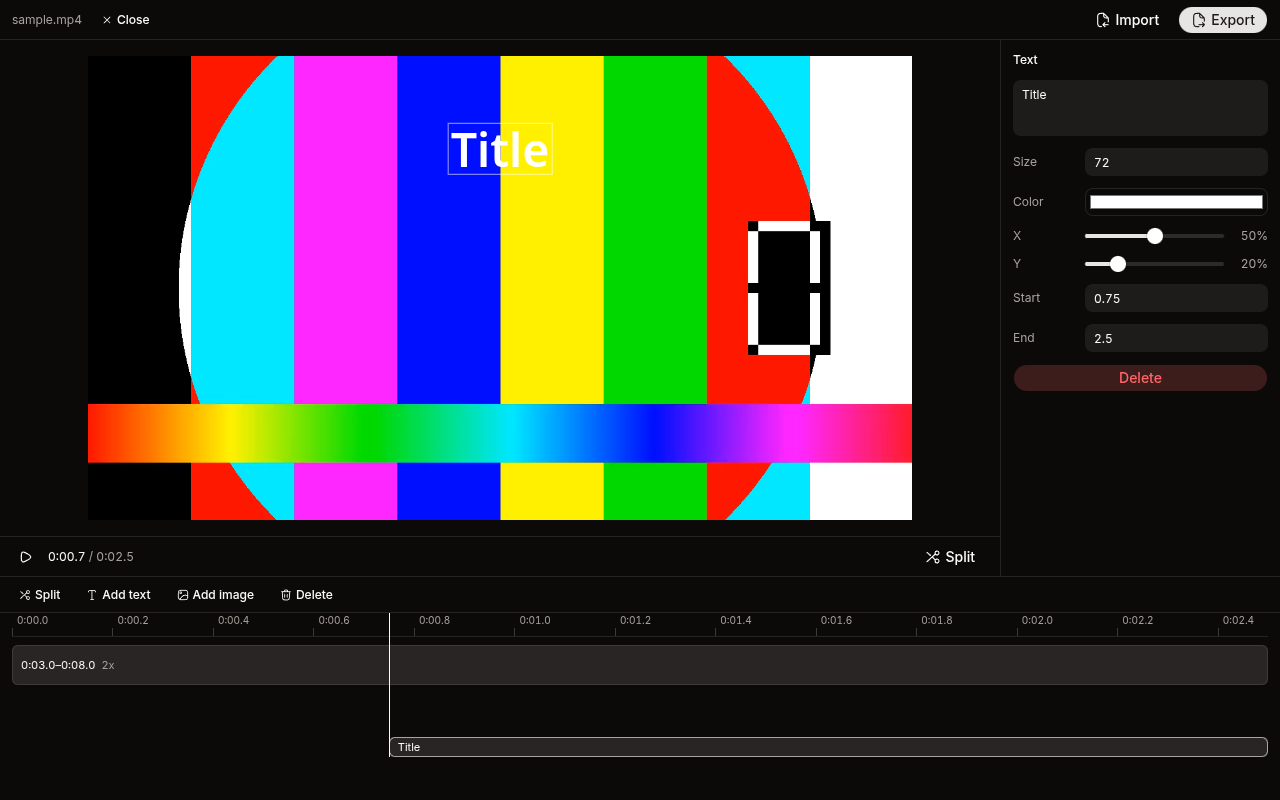
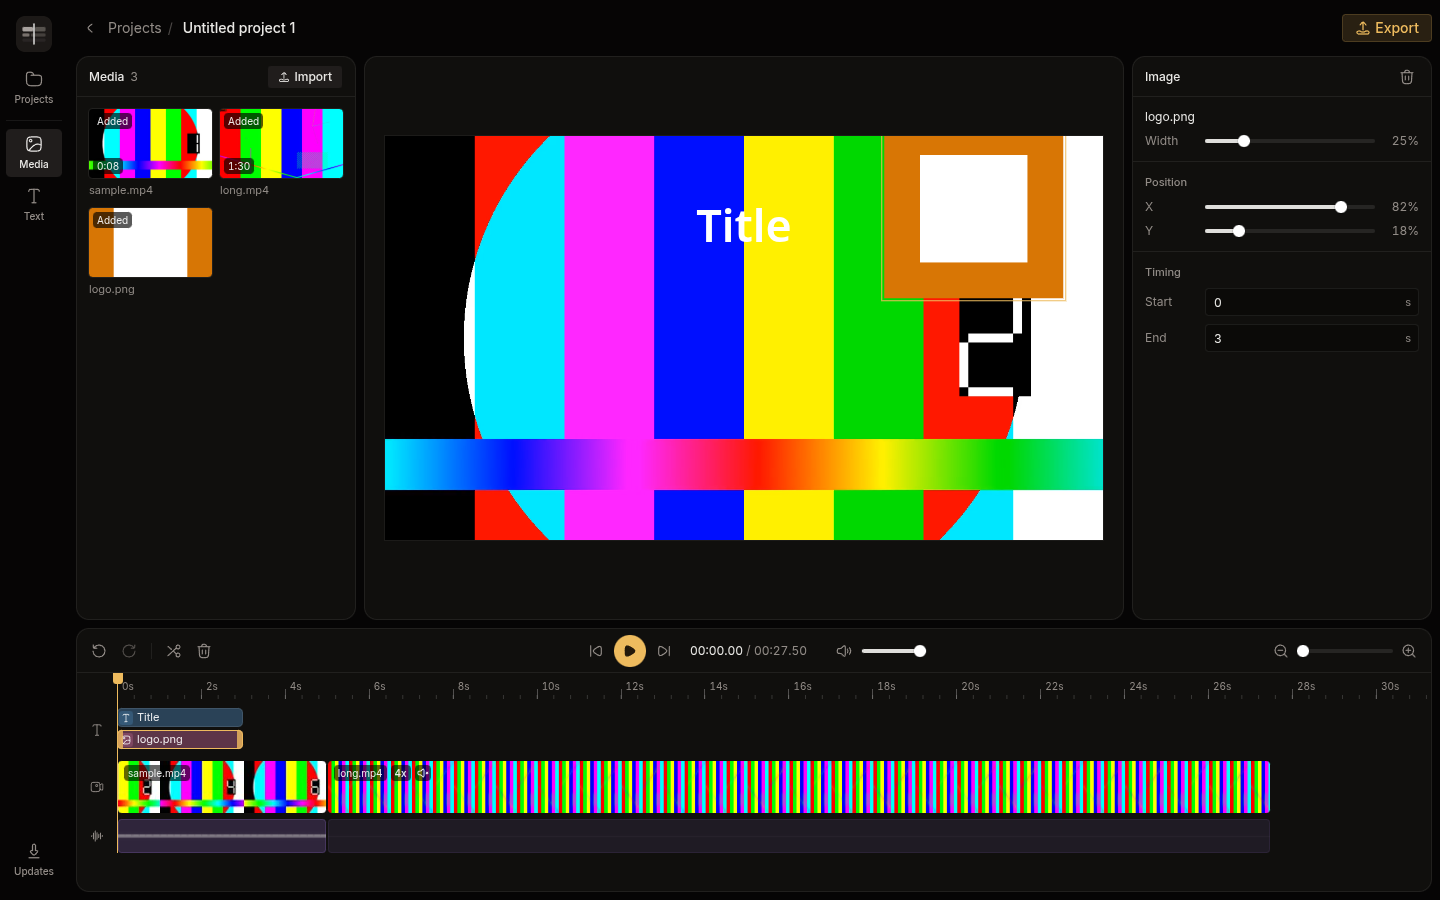
docs: update readme for projects, media bin and shortcuts

diff --git a/README.md b/README.md
@@ -12,10 +12,10 @@
 </p>
 
 <p align="center">
-  <img src="assets/showcase.png" width="1000" alt="Editor with a sped-up clip on the timeline and a text overlay selected in the inspector" />
+  <img src="assets/showcase.png" width="1000" alt="Editor with two videos on the timeline, a title and an image overlay, and the image selected in the inspector" />
 </p>
 
-Open a video, cut it into clips, and export an MP4. Editor keeps every video you open in a local library, so your edits are there the next time you open the same file.
+Create a project, import videos and images, cut them together, and export an MP4. Projects live in a local SQLite database, so your edits are there the next time you open the app.
 
 ## Install
 
@@ -23,16 +23,24 @@ Download the installer for your OS from [Releases](https://github.com/sankalpaac
 
 ## What you get
 
-- Open a video with **Import** or drop it on the window
+- A Projects page with a frame from each project as its thumbnail
+- A media panel per project: import or drop videos and images, then add them to the timeline
+- Cut several videos together. Each source is fitted into the project's frame size
 - Split at the playhead, trim clip edges, delete clips, and drag clips to reorder them
-- Play each clip at 0.25x to 4x speed
-- Add text overlays with size, color, position, and timing
-- Add PNG or JPG image overlays with scale, position, and timing
-- Drag overlays in the preview to place them
-- Export to MP4 with a progress bar and **Cancel**
-- Reopen recent projects with their edits, and see the exports of each video
+- Set each clip's speed (0.25x to 4x) and volume, or mute it
+- Add text overlays (Title, Subtitle, Caption) and PNG, JPG, or WebP image overlays, then drag them in the preview
+- A timeline with frame thumbnails, the audio waveform, and overlay chips
+- Undo and redo for every edit
+- Export to MP4 with a progress bar and **Cancel**, with a history of each project's exports
 
-Shortcuts: **Space** plays and pauses, **S** splits at the playhead, and **Delete** removes the selection.
+| Key                           | Action                         |
+| ----------------------------- | ------------------------------ |
+| **Space**                     | Play or pause                  |
+| **X**                         | Cut at the playhead            |
+| **Delete**                    | Delete the selection           |
+| **Ctrl+Z** / **Ctrl+Shift+Z** | Undo / redo (**Cmd** on macOS) |
+| **Left** / **Right**          | Step one frame                 |
+| **Home** / **End**            | Jump to the start or end       |
 
 The preview and the export use the same coordinates, so an overlay lands where you placed it. Text uses the bundled Noto Sans on every OS.
 
@@ -49,7 +57,7 @@ pnpm dev
 | ----------------- | ------------------------------------------------------------ |
 | `pnpm dev`        | Starts the app with hot reload.                              |
 | `pnpm typecheck`  | Type-checks the main and renderer projects.                  |
-| `pnpm lint`       | Runs ESLint.                                                 |
+| `pnpm lint`       | Runs oxlint.                                                 |
 | `pnpm test`       | Runs the vitest suite. The export test runs the real ffmpeg. |
 | `pnpm build`      | Type-checks and bundles into `out/`.                         |
 | `pnpm dist:linux` | Builds an AppImage into `release/`.                          |
@@ -66,15 +74,13 @@ The update check reads public GitHub releases. If the repository is private, ins
 
 ## Architecture
 
-The data shape lives in `src/shared/project.ts`. A `Project` holds the probed source video, an ordered list of clips, and a list of overlays. Each clip is a range of the source in source seconds with a playback speed. Each overlay is either `text` or `image`, with a start and end in timeline seconds and a center position as a fraction of the frame. Every edit goes through `editProject`, a pure reducer, so the renderer and the tests run the same code.
+The data shape lives in `src/shared/sequence.ts`. A project's `Sequence` holds an output format, an ordered list of clips, and a list of overlays. Each clip is a range of one video media item in source seconds, with a speed and a volume. Each overlay is either `text` or `image`, with a start and end in timeline seconds and a center position as a fraction of the frame. Every edit goes through `editSequence`, a pure reducer. The renderer wraps it in an undo history that merges a continuous drag into one step.
 
-The main process (`src/main`) owns the file dialogs, ffprobe, the export job, and the library. The renderer never sees source file paths. Main gives each opened file an asset id and serves its bytes through the `media://<asset id>/` protocol. The preload script exposes a small typed API (`src/shared/api.ts`) through `contextBridge`. The window runs with context isolation and the sandbox on, and main validates every IPC payload with the zod schemas from `project.ts`.
+The main process (`src/main`) owns the database, the file dialogs, ffprobe, and the export job. The database is a SQLite file (`editor.db` in the app's user data folder) opened with Node's built-in `node:sqlite`, so there is no native module to rebuild. It has three tables: `projects` (name and sequence), `media` (the files imported into each project), and `exports`. The renderer never sees file paths. It refers to media by id, and the `media://<id>/` protocol serves the file, a thumbnail, a filmstrip, and a waveform. ffmpeg generates those images on first request and main caches them. The preload script exposes a small typed API (`src/shared/api.ts`) through `contextBridge`. The window runs with context isolation and the sandbox on, and main validates every IPC payload with zod.
 
-The library is a SQLite file (`editor.db` in the app's user data folder) opened with Node's built-in `node:sqlite`, so there is no native module to rebuild. The `videos` table stores each opened file and its edits as JSON. The `exports` table records each finished export. Opening a file that is already in the library restores its edits.
+Export turns the sequence into one ffmpeg command (`src/main/export-args.ts`). It trims each clip, retimes it with `setpts` and `atempo`, fits it into the output format, sets its volume, and concatenates the clips. Then it draws text with `drawtext` and composites images with `overlay`, each gated with `enable='between(t,start,end)'`. ffmpeg reports progress through `-progress pipe:1`.
 
-Export turns the project into one ffmpeg command (`src/main/export-args.ts`). It trims each clip, retimes it with `setpts` and `atempo`, and concatenates the clips. Then it draws text with `drawtext` and composites images with `overlay`, each gated with `enable='between(t,start,end)'`. ffmpeg reports progress through `-progress pipe:1`.
-
-The preview plays the source `<video>` and maps the playhead from timeline time to source time with `locate`. At the end of a clip, it seeks to the start of the next one and sets the playback rate to that clip's speed.
+The preview keeps one `<video>` per source and maps the playhead to a clip and a source time with `locate`. At a clip boundary it hands off to the next source and sets that clip's speed and volume.
 
 ## License
 
